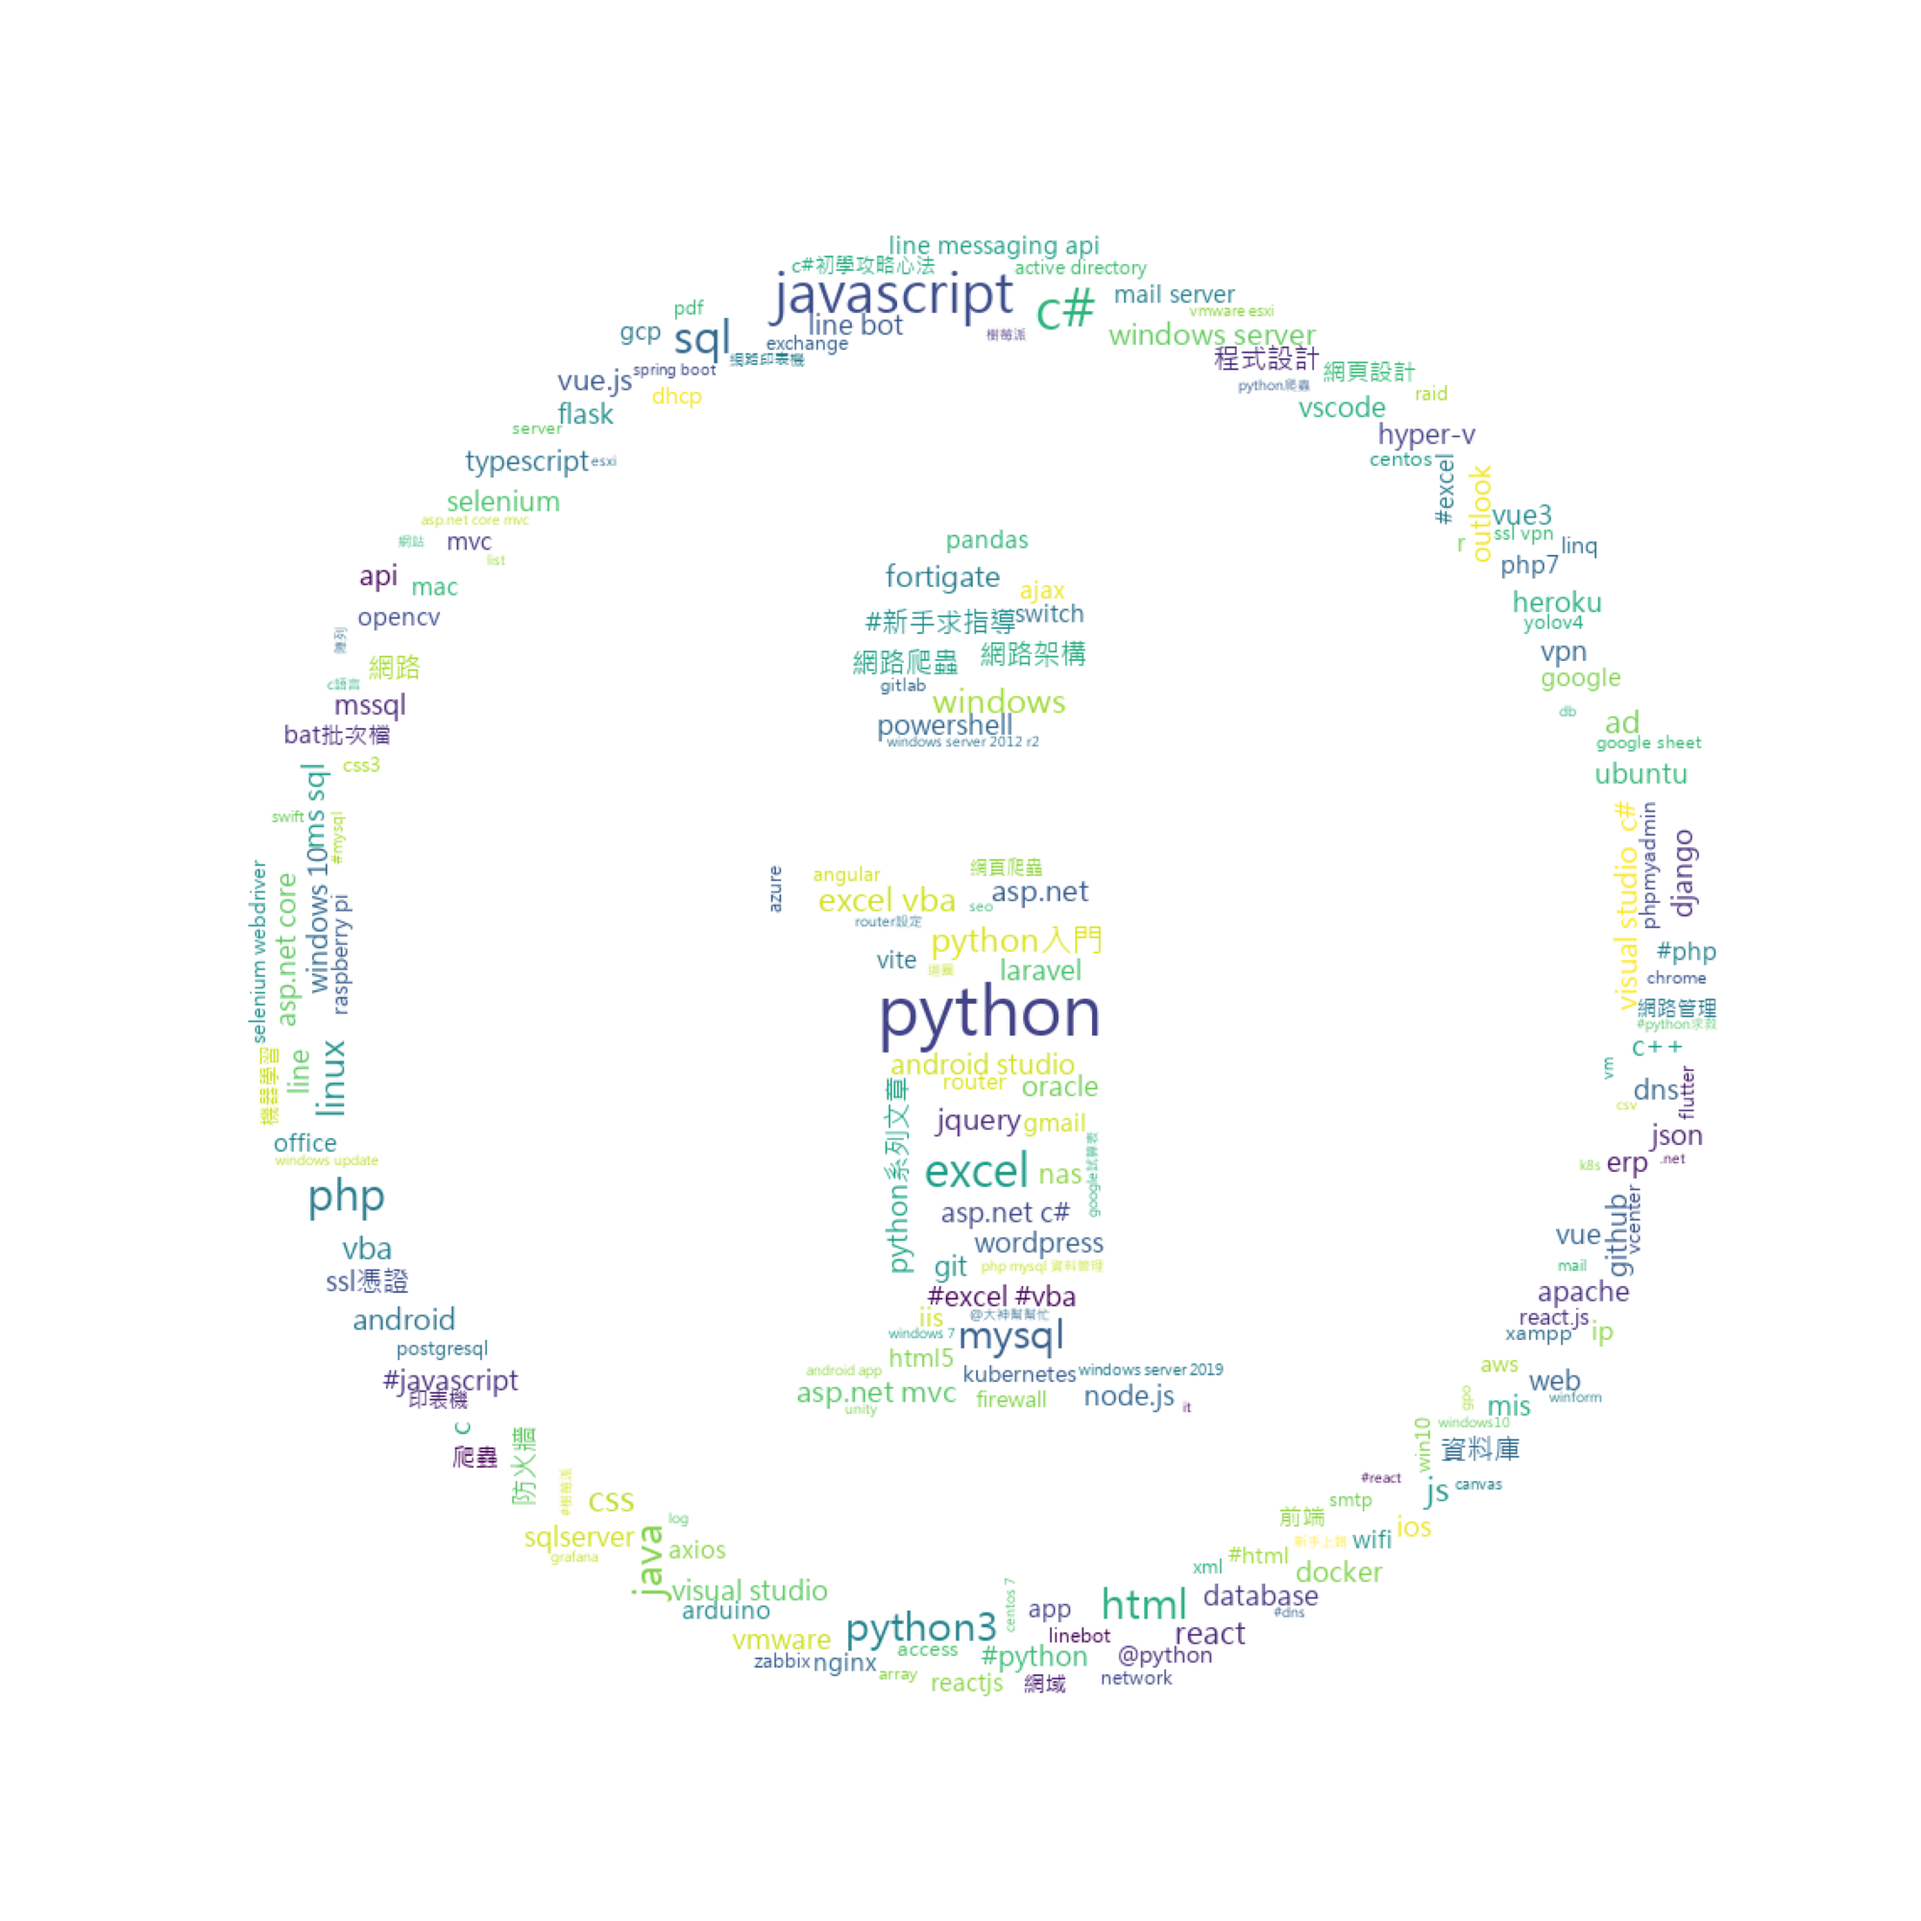
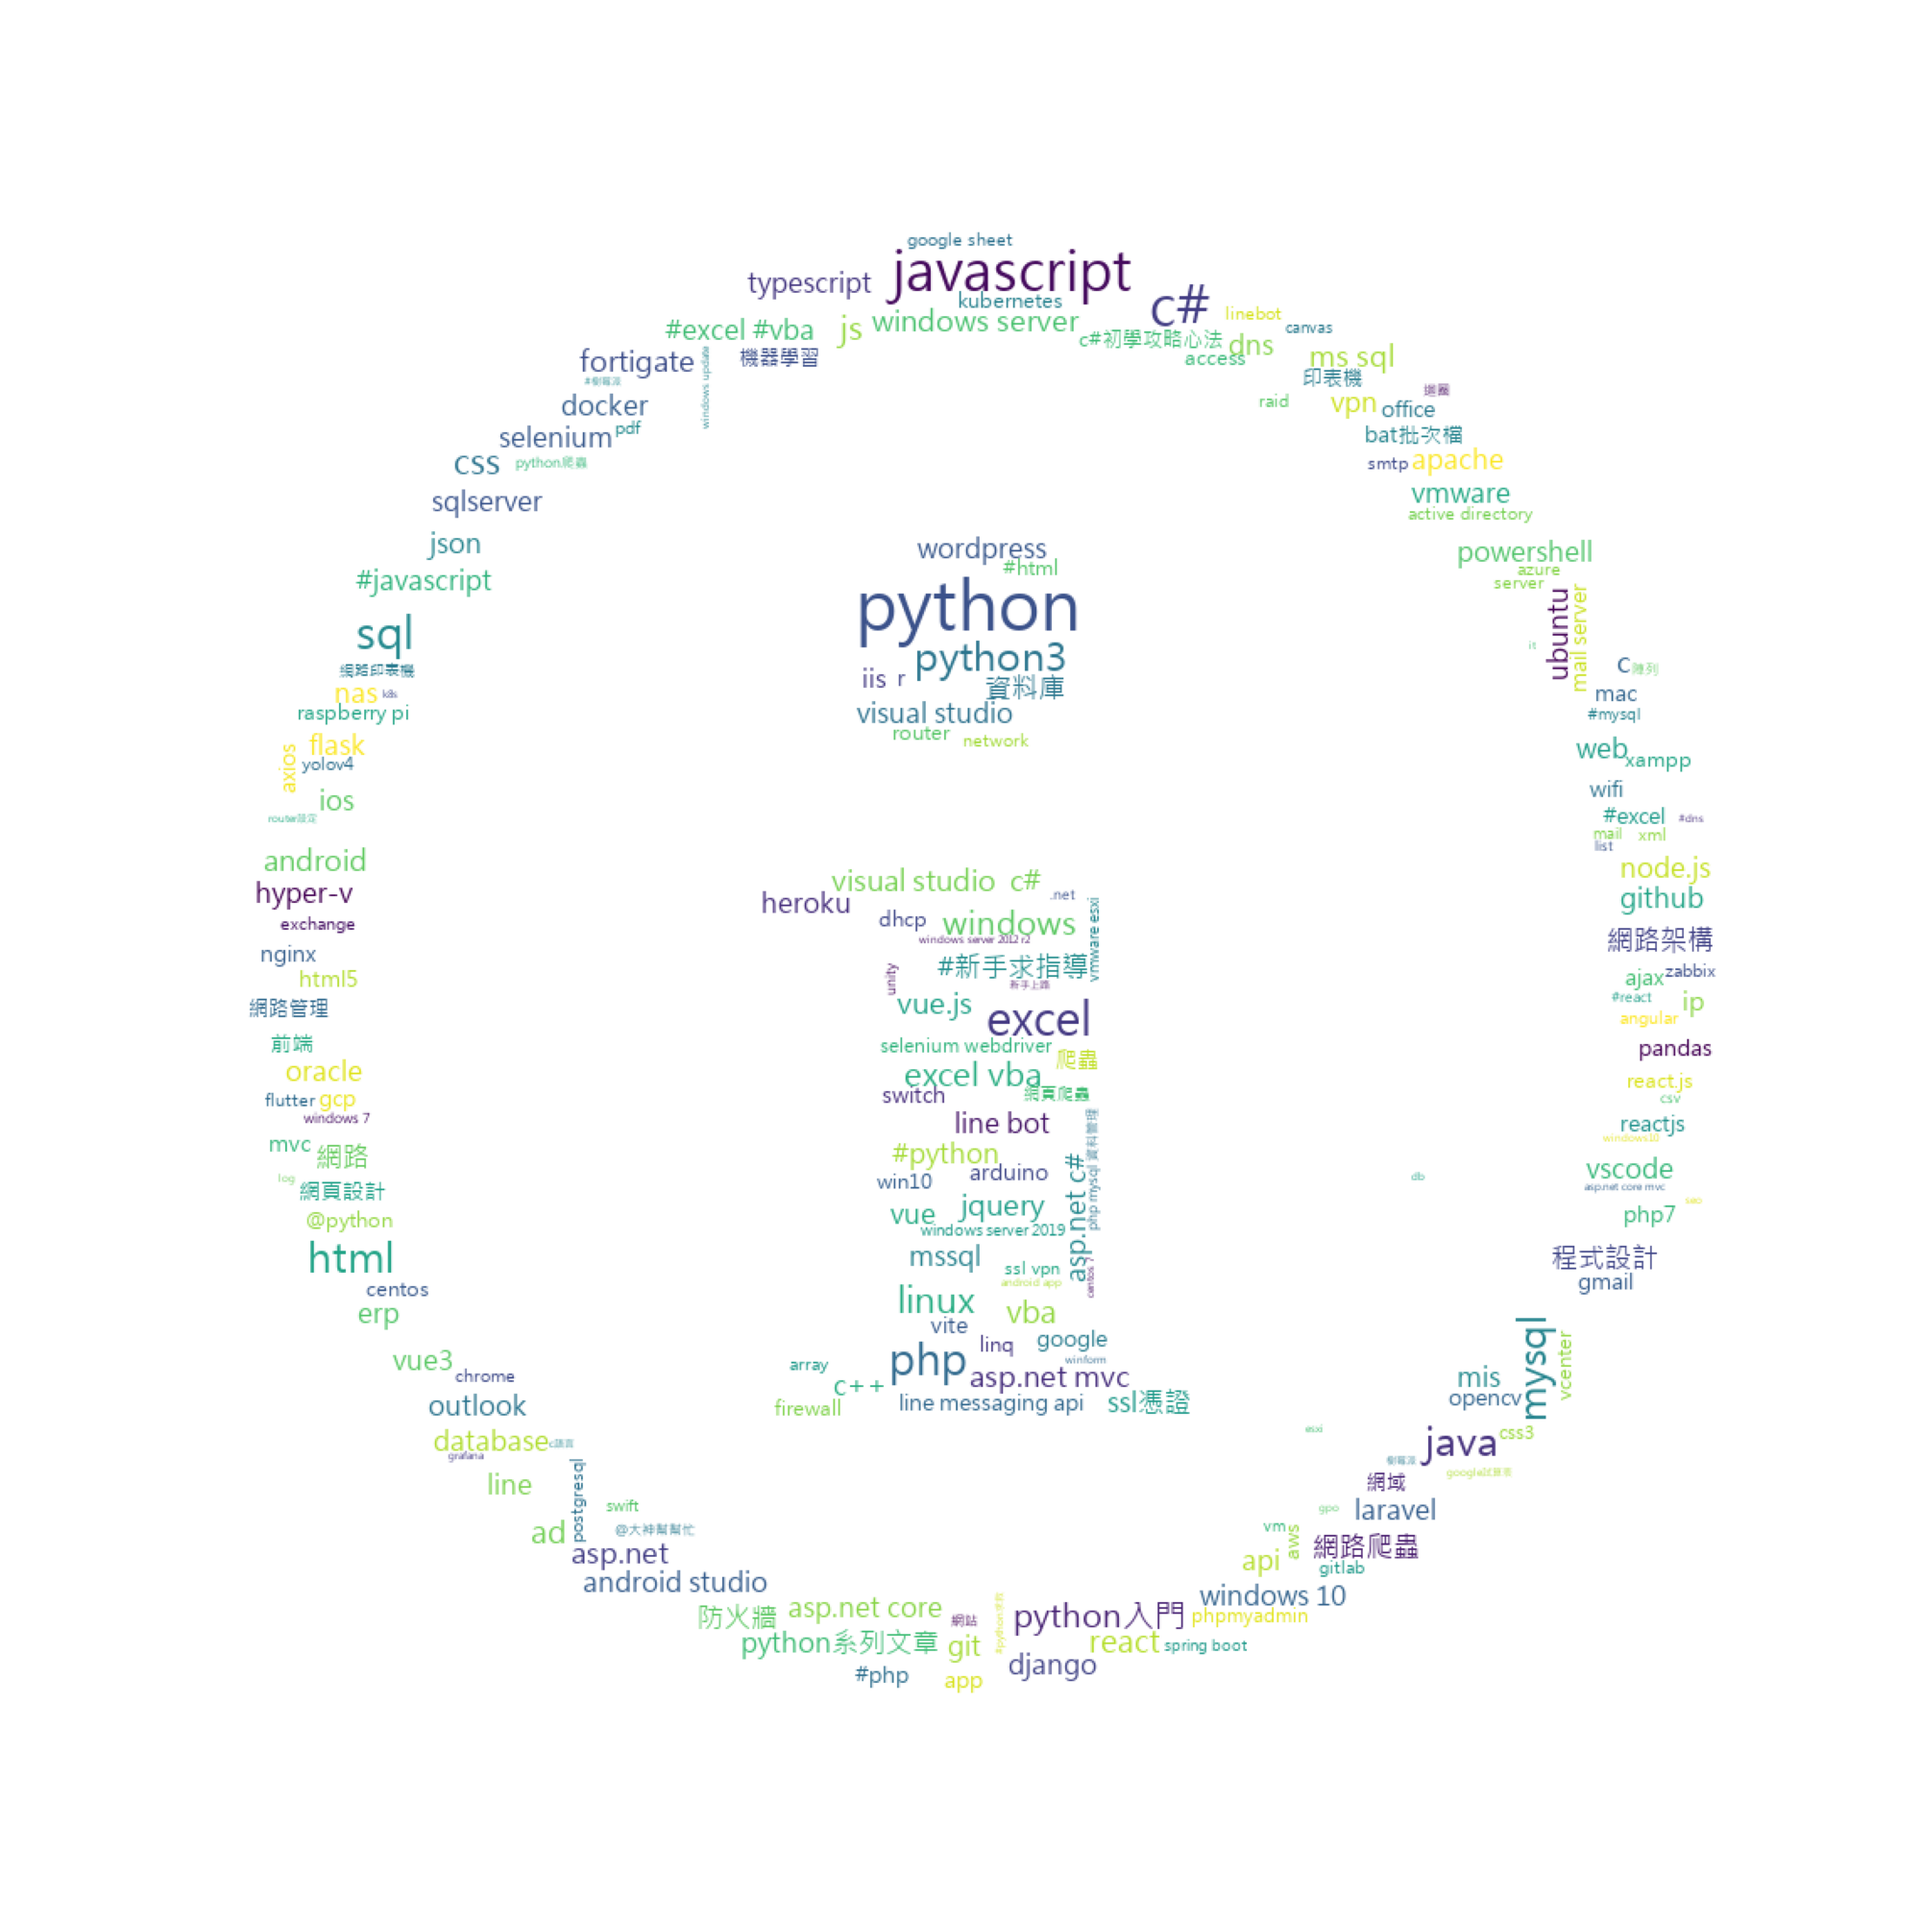
Add File

Changed region(s): [[0.124, 0.124, 0.899, 0.899], [0.403, 0.434, 0.62, 0.744], [0.434, 0.279, 0.589, 0.403]]

diff --git a/Analyze_Popular_Tags.py b/Analyze_Popular_Tags.py
@@ -5,35 +5,10 @@ import jieba
 import jieba.analyse
 test = open('JSONcrawler.json',encoding="utf8") #開檔
 Data = json.load(test) #反序列化(decode)
-temp = Data.get('Article') #取得 key = "Title" 的 value
+temp = Data.get('Article') #取得 key = "Article" 的 value
 
 
-df = pd.DataFrame(temp)
-df['seg'] = ""
-
-
-jieba.analyse.set_stop_words('stopwords.txt')
-index = 0
-li_jieba = []
-
-for documents in df['內文']:
-    documents = re.sub(r"[a-zA-Z0-9]","",documents)
-    documents = re.sub(r"_","",documents)
-    documents = re.sub(r"一.","",documents)
-    documents = re.sub(r"三.","",documents)
-    documents = re.sub(r"三..","",documents)
-    documents = re.sub(r"但.","",documents)
-    documents = re.sub(r"還.","",documents)
-    seg_list = jieba.analyse.extract_tags(documents, 150)
-    li_jieba.append(seg_list)
-    #seg_list = jieba.lcut(documents)
-    df['seg'].iloc[index] = seg_list
-    df['內文'].iloc[index] =  documents
-    index += 1
-
-
-
-#印出不同"標籤"出現次數
+#計算不同"標籤"出現次數
 dic = {} #紀錄下面取得的不同"標籤"出現次數
 for i in temp: #從 list 中一個一個列舉出 dict
     #print(li['標籤'])
@@ -46,10 +21,13 @@ li_value = []
 for i in dic:
     li_key.append(i) #將每個標籤名稱加入 list 中
     li_value.append(dic[i]) #將每個標籤出現過的次數加入 list 中
+
+
 #排序 (由高到低排序"標籤出現的次數")
 li_value.sort(reverse = True) #將"標籤出現次數"由大到小排序
 li_key_sorted = [] #存放排序好的"標籤"
 length = len(li_key) #"標籤"總數
+
 
 #利用迴圈排序"標籤"
 for i in range(length):
@@ -57,17 +35,20 @@ for i in range(length):
         if li_value[i] == dic[j]:
             li_key_sorted.append(j)
 
+
 dic_sort = {}
 #利用迴圈印出排序後的結果
 for i in range(length):
     dic_sort[li_key_sorted[i]] = li_value[i]
-    #print(li_key_sorted[i],":",li_value[i])
+    print(li_key_sorted[i],":",li_value[i])
 
+
+# 做出文字雲
 from PIL import Image
 import matplotlib.pyplot as plt
 from wordcloud import WordCloud
-
 import numpy as np
+
 mask = np.array(Image.open("IT.png"))
 font = "C:\Windows\Fonts\MSJH.TTC"
 
@@ -79,38 +60,3 @@ plt.imshow(wordcloud)
 plt.axis("off")
 plt.savefig("Word Cloud")
 plt.show()
-
-
-Top5 = {}
-count = 0
-for i in dic_sort:
-    if count>=1:
-        break
-    Top5[i] = dic_sort[i]
-    count += 1
-print(Top5)
-
-res = pd.DataFrame(columns = ['tag','seg'],index = range(count))
-cnt = 0
-for tag in Top5:
-    res['tag'][cnt] = tag
-    cnt += 1
-
-
-count = 0
-for tag in Top5:
-    id = 0
-    li_id = []
-    for seg in df['標籤']:
-        if tag in seg:
-            li_id.append(id)
-        id += 1
-    big_list = []
-    for i in li_id:
-        for seg in df['seg'][i]:
-            big_list.append(seg)
-    res['seg'][count] = big_list
-    count += 1
-print(res)
-
-res.to_csv("After_analysis.csv")
